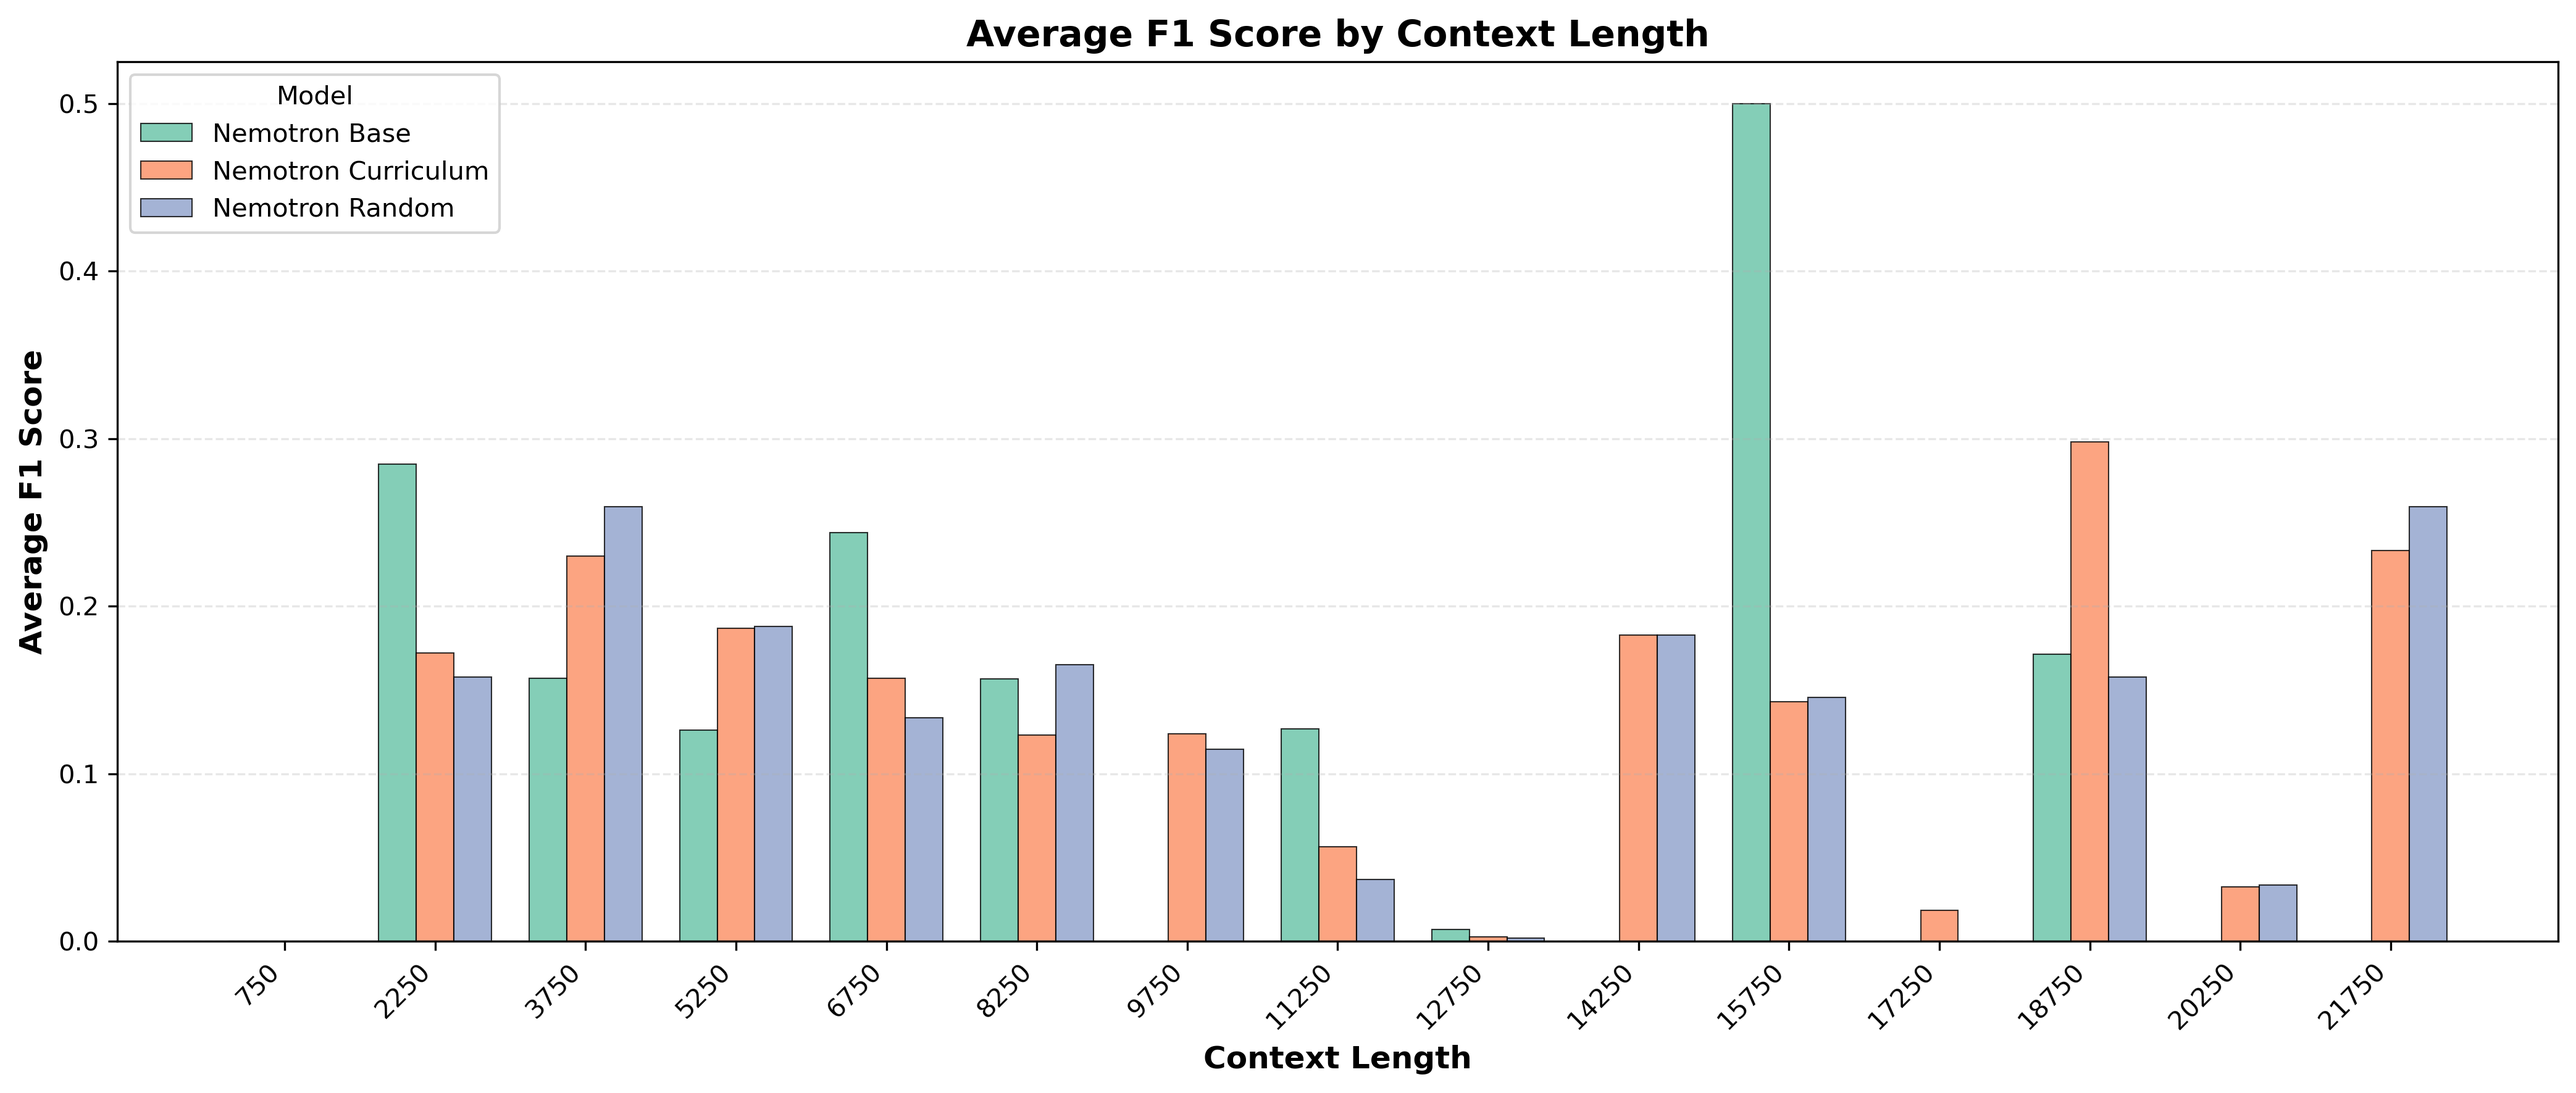
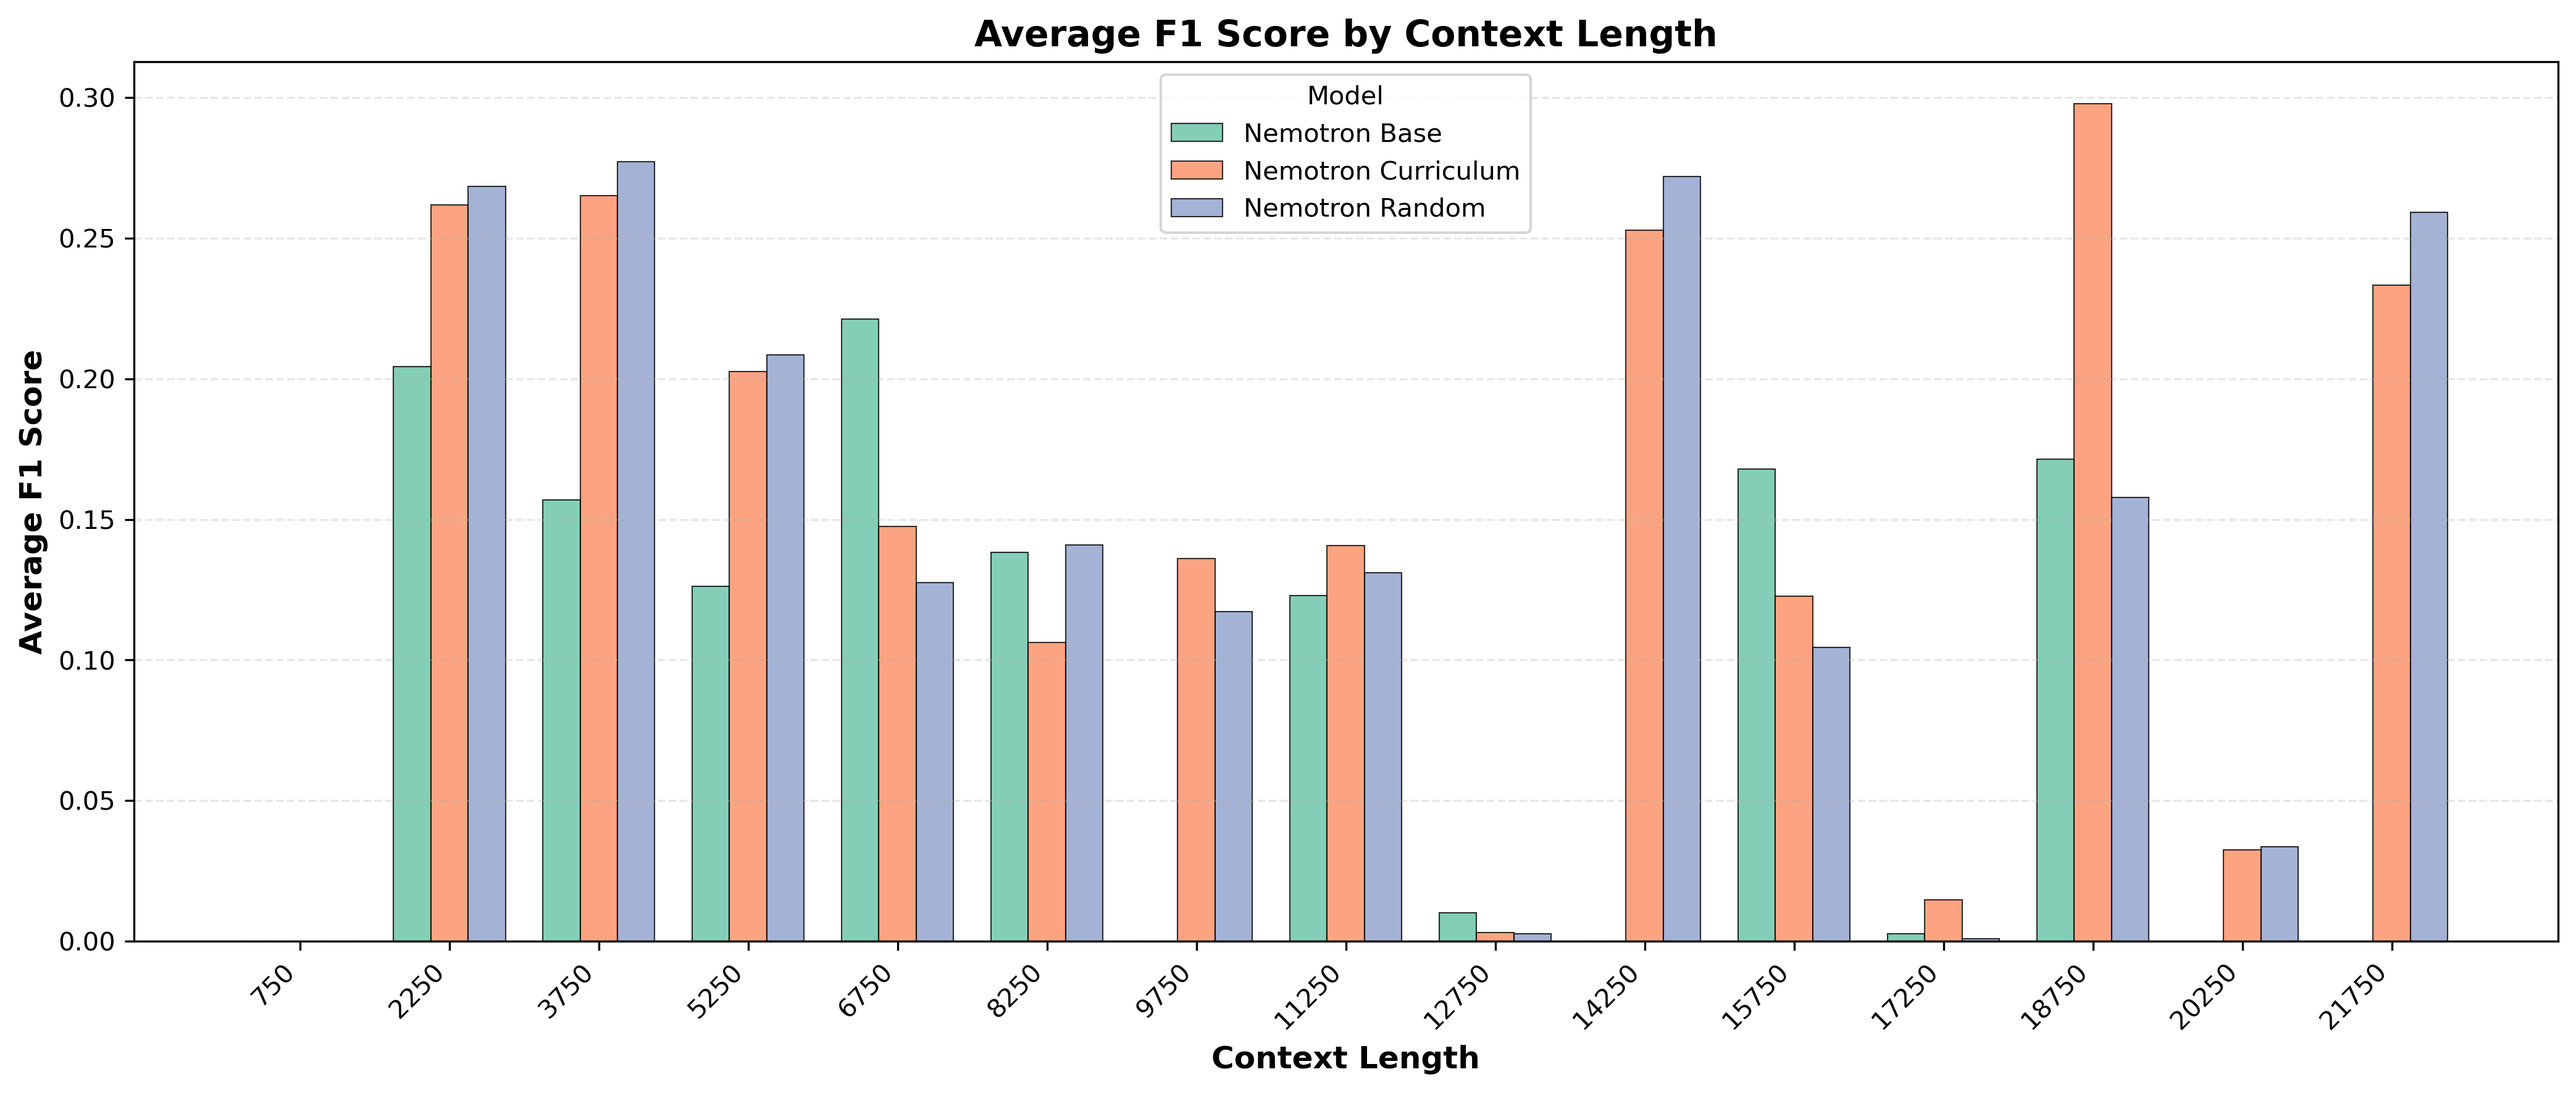
context graphs 2

diff --git a/code/context_graphs_nemo.py b/code/context_graphs_nemo.py
@@ -10,7 +10,7 @@ def load_json_file(filepath):
     return data
 
 models = ['base', 'random', 'curriculum']
-benchmarks = ['2wikimqa', 'qasper']
+benchmarks = ['2wikimqa', 'qasper', 'hotpotqa', 'multifieldqa_en']
 
 all_dfs = []
 
